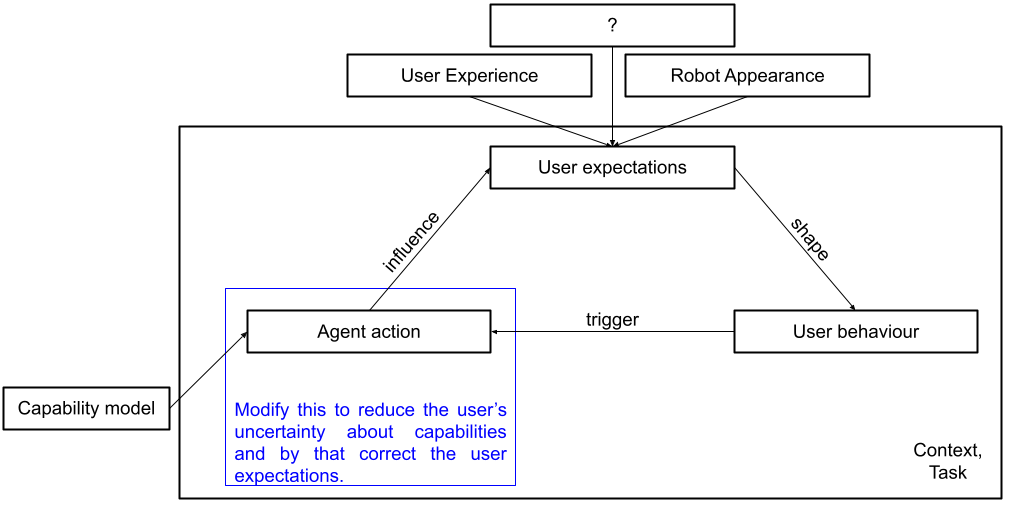
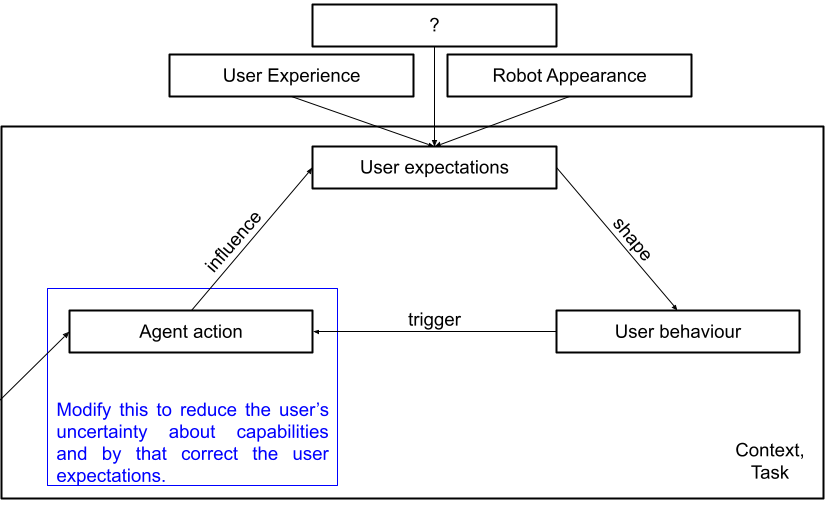
Added THRI figure

diff --git a/data.js b/data.js
@@ -185,7 +185,7 @@ const PUBS = [
     ],
     blurb:
       "Systematic review of dialogue managers in HRI — approach, domain, robot form, situatedness, modality.",
-    figure:    null, // e.g. "uploads/figures/iva23.png"
+    figure:    "uploads/figures/THRI24.jpg"
   },
   {
     year:      2023,